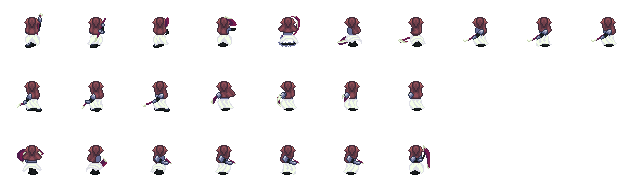
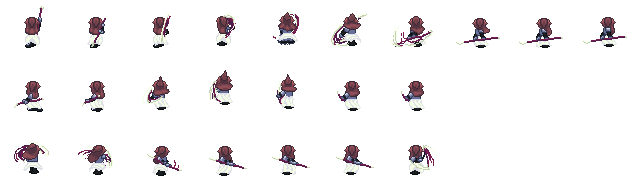
Normal changes (imported animations, misc ui control fixes)

diff --git a/Assets/Scripts/UI/KillSpare/killSpareManager.cs b/Assets/Scripts/UI/KillSpare/killSpareManager.cs
@@ -1,11 +1,10 @@
 using System.Collections;
-using System.Collections.Generic;
 using UnityEngine;
-using UnityEngine.UI;
 using DG.Tweening;
-using System.Xml.Linq;
 using TMPro;
 using UnityEngine.SceneManagement;
+
+using UnityEngine.EventSystems;
 
 public class killSpareManager : MonoBehaviour
 {
@@ -59,6 +58,8 @@ public class killSpareManager : MonoBehaviour
         {
             killSpareTextCanvas.DOFade(1, 1f).SetUpdate(true).OnComplete(() =>
             {
+                EventSystem.current.SetSelectedGameObject(yescanvas.gameObject);
+                EventSystem.current.SetSelectedGameObject(null);
                 yescanvas.gameObject.SetActive(true);
                 yescanvas.DOFade(1, 0.5f).SetUpdate(true).OnComplete(() => {
                     nocanvas.gameObject.SetActive(true);
@@ -216,10 +217,14 @@ public class killSpareManager : MonoBehaviour
 
         yield return new WaitForSecondsRealtime(1.5f);
 
+        Debug.Log("I am checking if this is the demo");
         if (DemoCheck.getDemo()) // If this is the demo, don't play any of the dialogue, instantly send player to demo end scene
         {
             SceneManager.LoadScene("DemoEnd");
             StopAllCoroutines();
+        } else
+        {
+            Debug.Log("I don't like that this isn't working :(");
         }
 
         if(isKilling)

diff --git a/Assets/Scripts/KeybindManager.cs b/Assets/Scripts/KeybindManager.cs
@@ -107,6 +107,22 @@ public class KeybindManager : MonoBehaviour
                 action.ApplyBindingOverride(0, newBinding);
                 buttonText.text = action.bindings[0].ToDisplayString();
 
+                switch (buttonText.text)
+                {
+                    case "Button 4":
+                        buttonText.text = "Y";
+                        break;
+                    case "Trigger":
+                        buttonText.text = "X";
+                        break;
+                    case "Button 3":
+                        buttonText.text = "B";
+                        break;
+                    case "Button 2":
+                        buttonText.text = "A";
+                        break;
+                }
+
                 action.Enable();
                 rebindOperation.Dispose();
                 isRebinding = false; // Reset flag

diff --git a/Assets/Scripts/UI/KeyPromptUI.cs b/Assets/Scripts/UI/KeyPromptUI.cs
@@ -69,7 +69,13 @@ public class KeyPromptUI : MonoBehaviour
         { "Button South", "A" },
         { "Button East", "B" },
         { "Button West", "X" },
-        { "Button North", "Y" }
+        { "Button North", "Y" },
+
+        //Additional keys (for demo, specifically)
+        { "Button 2", "A"},
+        { "Button 3", "B"},
+        { "Button 4", "Y"},
+        { "Trigger", "X"}
     };
 
     private void OnEnable()
